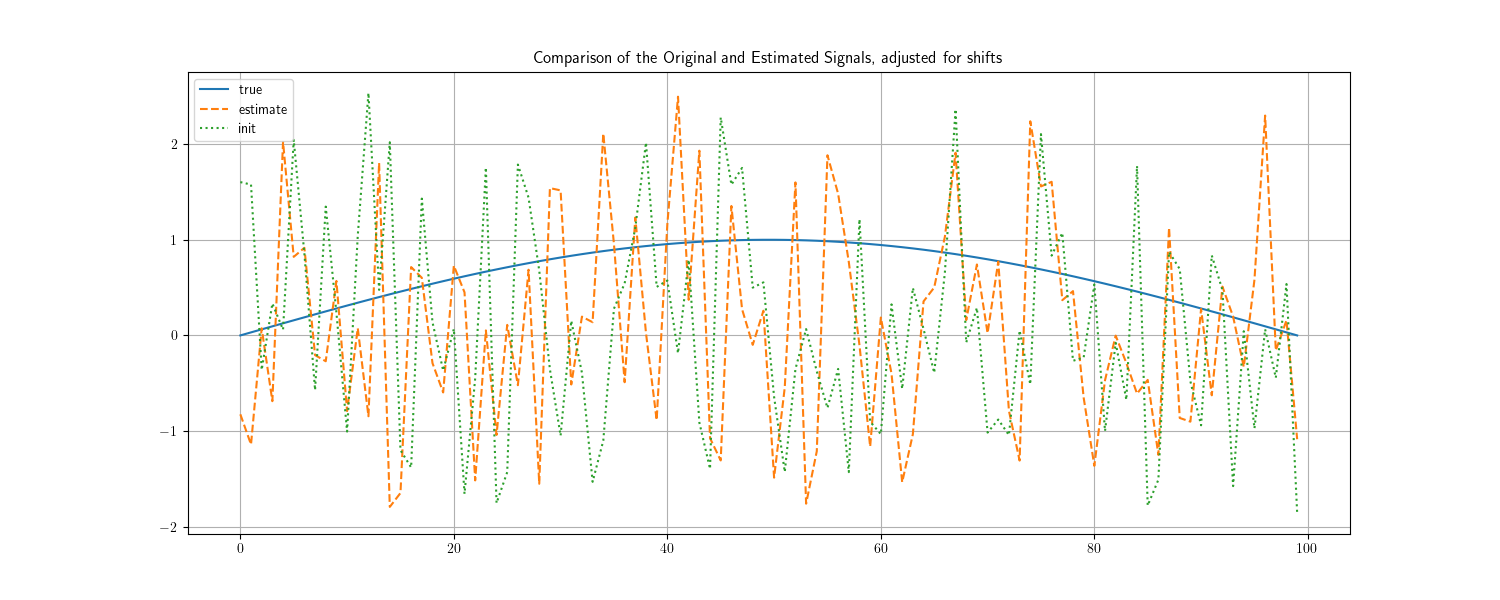
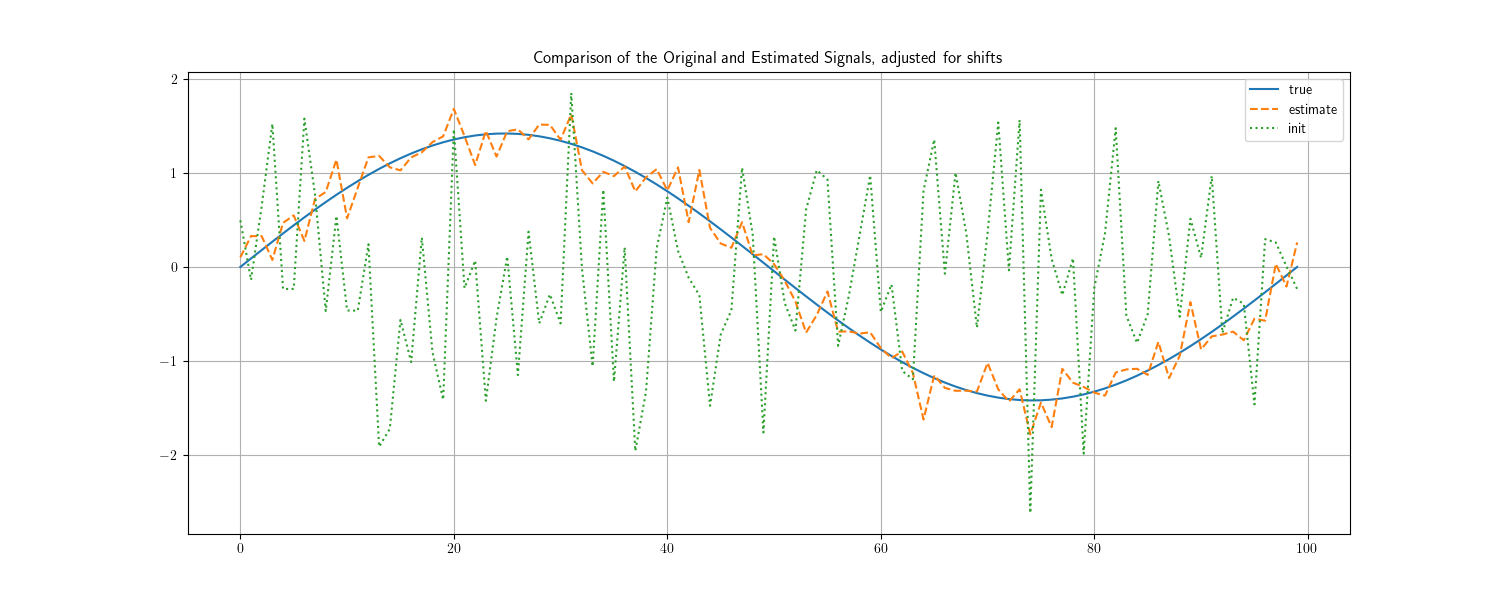
fix major optimizer bug by adding self-defined gradient function to bypass autograd

diff --git a/src/optimization.py b/src/optimization.py
@@ -6,74 +6,21 @@ import pymanopt.optimizers
 
 import utils
 
-def make_A(L):
-    A = np.eye(L, dtype = 'complex_') 
-    A[0,:] += np.ones(L)
-    A[:,0] += np.ones(L)
-    return A
-
-def create_cost_function(mean_est, P_est, B_est, sigma, manifold):
-    euclidean_gradient = euclidean_hessian = None
-    
-    @pymanopt.function.autograd(manifold)
-    def cost(X):
-        L = len(X)
-        # print(type(X))
-        FX = np.fft.fft(X)
-        A = make_A(L)
-        
-        M1 = np.mean(X)
-        M2 = abs(FX)**2 + L * sigma**2 * np.ones(L)
-        # x = np.array(X)[:,i]
-        mat1 = np.array([np.roll(FX,k) for k in range(L)])
-        mat2 = np.outer(FX, np.conjugate(FX))
-        matmul = mat1 * mat2
-        M3 = matmul + mean_est * (sigma**2) * (L**2) * A
-            
-        # M3 = utils.bispectrum(X.reshape(L,1))[0] + mean_est * (sigma**2) * (L**2) * A
-    
-        M3_min_Best = M3 - B_est
-        
-        # compute coefficients
-        a1 = L**2
-        a2 = 1/(L*(2+sigma**2) )
-        a3 = 1/(L**2*(3+sigma**4))
-        
-        scale = 3 + sigma**4
-        assert M2.shape == P_est.shape
-        f = scale * 0.5 * \
-            (a1*(M1-mean_est)**2 + \
-                a2*np.linalg.norm(M2 - P_est,2)**2 + \
-                    a3*np.linalg.norm(M3_min_Best, 'fro')**2 
-            )
-                
-        return f
-    return cost, euclidean_gradient, euclidean_hessian
-    
-    
-    
-# matrix = anp.random.normal(size=(dim, dim))
-# matrix = 0.5 * (matrix + matrix.T)
-
-# @pymanopt.function.autograd(manifold)
-# def cost(point):
-#     return -point @ matrix @ point
-    
-    
-    
 def optimise_manopt(data, sigma, X0, extra_inits = 0):
     assert isinstance(extra_inits, int)
     L, N = data.shape
     mean_est, P_est, B_est = utils.invariants_from_data(data)
     
-    manifold = pymanopt.manifolds.Euclidean(L)
-    cost, euclidean_gradient, euclidean_hessian = create_cost_function(mean_est, P_est, B_est, sigma, manifold)
-    # print('EG: ', euclidean_gradient, ' EH: ', euclidean_hessian)
-    # print(type(cost))
-    problem = pymanopt.Problem(manifold, cost)
-    optimizer = pymanopt.optimizers.TrustRegions(min_gradient_norm = 1e-6, max_iterations = 200)
+    # manifold = pymanopt.manifolds.Euclidean(L,1)
+    manifold = pymanopt.manifolds.Euclidean(L,1)
+    cost, grad, euclidean_hessian = create_cost_function(mean_est, P_est, B_est, sigma, manifold)
+    # problem = pymanopt.Problem(manifold, cost, euclidean_gradient = grad, euclidean_hessian=euclidean_hessian)
+    problem = pymanopt.Problem(manifold, cost, riemannian_gradient=grad)
+    optimizer = pymanopt.optimizers.TrustRegions(min_gradient_norm = 1e-7, max_iterations = 200, verbosity = 1)
+    # optimizer = pymanopt.optimizers.NelderMead()
+    if X0.ndim == 1:
+        X0 = X0.reshape(-1,1)
     result = optimizer.run(problem, initial_point=X0)
-    # optimizer = pymanopt.optimizers.SteepestDescent()
     # result = optimizer.run(problem)
     X_est = result.point
     result_cost = result.cost
@@ -86,3 +33,157 @@ def optimise_manopt(data, sigma, X0, extra_inits = 0):
                 X_est = result.point
             
     return X_est
+
+
+
+def create_cost_function(mean_est, P_est, B_est, sigma, manifold):
+    euclidean_gradient = euclidean_hessian = None
+    
+    # @pymanopt.function.autograd(manifold)
+    # def cost(X):
+    #     L = len(X)
+    #     # print(type(X))
+    #     FX = np.fft.fft(X)
+    #     A = make_A(L)
+        
+    #     M1 = np.mean(X)
+    #     M2 = abs(FX)**2 + L * sigma**2 * np.ones(L)
+    #     # x = np.array(X)[:,i]
+    #     mat1 = np.array([np.roll(FX,k) for k in range(L)])
+    #     mat2 = np.outer(FX, np.conjugate(FX))
+    #     matmul = mat1 * mat2
+    #     M3 = matmul + mean_est * (sigma**2) * (L**2) * A
+            
+    #     # M3 = utils.bispectrum(X.reshape(L,1))[0] + mean_est * (sigma**2) * (L**2) * A
+    
+    #     M3_min_Best = M3 - B_est
+        
+    #     # compute coefficients
+    #     a1 = L**2
+    #     a2 = 1/(L*(2+sigma**2) )
+    #     a3 = 1/(L**2*(3+sigma**4))
+        
+    #     scale = 3 + sigma**4
+    #     assert M2.shape == P_est.shape
+    #     f = scale * 0.5 * \
+    #         (a1*(M1-mean_est)**2 + \
+    #             a2*np.linalg.norm(M2 - P_est,2)**2 + \
+    #                 a3*np.linalg.norm(M3_min_Best, 'fro')**2 
+    #         )
+                
+    #     return f
+    
+    @pymanopt.function.autograd(manifold)
+    def cost(X):
+        if X.ndim == 1:
+            X = X.reshape(-1,1)
+        L, K = X.shape
+        assert K == 1
+        # print(type(X))
+        FX = np.fft.fft(X, axis = 0)
+        A = make_A(L)
+        
+        # limits
+        M1 = np.mean(X)
+        M2 = abs(FX)**2 + L * sigma**2 * np.ones((L,K))
+        M3 = mean_est * (sigma**2) * (L**2) * A
+        # matmul = np.zeros((L,L,K))
+        for k in range(K):
+            y =FX[:,k]
+            mat1 = utils.circulant(y)
+            mat2 = np.outer(y, np.conjugate(y))
+            M3 += mat1 * mat2
+            
+        M3_min_Best = M3 - B_est
+        
+        # compute coefficients
+        a1 = L**2
+        a2 = 1/(L*(2+sigma**2) )
+        a3 = 1/(L**2*(3+sigma**4))
+        
+        scale = 3 + sigma**4
+        # assert M2.shape == P_est.shape
+        f = scale * 0.5 * \
+            (a1*(M1-mean_est)**2 + \
+                a2*np.linalg.norm(M2 - P_est.reshape(-1,1))**2 + \
+                    a3*np.linalg.norm(M3_min_Best, 'fro')**2 
+            )
+                
+        return f
+    
+    
+    @pymanopt.function.autograd(manifold)
+    def grad(X):
+        if X.ndim == 1:
+            X = X.reshape(-1,1)
+        L, K = X.shape
+        assert K == 1
+        # print(type(X))
+        FX = np.fft.fft(X, axis = 0)
+        A = make_A(L)
+        
+        # limits
+        M1 = np.mean(X)
+        M2 = abs(FX)**2 + L * sigma**2 * np.ones((L,K))
+        M3 = mean_est * (sigma**2) * (L**2) * A
+        for k in range(K):
+            y =FX[:,k]
+            mat1 = utils.circulant(y)
+            mat2 = np.outer(y, np.conjugate(y)) 
+            M3 += mat1 * mat2
+            
+        M3_min_Best = M3 - B_est
+        
+        # compute coefficients
+        a1 = L**2
+        a2 = 1/(L*(2+sigma**2) )
+        a3 = 1/(L**2*(3+sigma**4))
+        gradX = (a1/L) * (M1 - mean_est) * np.ones((L,K)) + \
+            2 * L * a2 * np.fft.ifft((M2-P_est.reshape(-1,1))*FX, axis = 0) 
+        for k in range(K):
+            gradX[:,k] += a3 * DBx_adj(FX, M3_min_Best)
+        
+        scale = 3 + sigma**4
+        gradX = scale * gradX.real
+        gradX = manifold.euclidean_to_riemannian_gradient(X, gradX)
+        # print('used defined grad')
+        return gradX
+    
+    return cost, grad, euclidean_hessian
+    # @pymanopt.function.numpy(manifold)
+    # def cost(X):
+    #     return -np.trace(X.T @ B_est @ X)
+
+    # @pymanopt.function.numpy(manifold)
+    # def euclidean_gradient(X):
+    #     return -2 * B_est @ X
+
+    # @pymanopt.function.numpy(manifold)
+    # def euclidean_hessian(X, H):
+    #     return -2 * B_est @ H
+    
+
+    #return cost, grad, euclidean_hessian
+    
+
+def make_A(L):
+    A = np.eye(L, dtype = 'complex_') 
+    A[0,:] += np.ones(L)
+    A[:,0] += np.ones(L)
+    return A
+    
+    
+# matrix = anp.random.normal(size=(dim, dim))
+# matrix = 0.5 * (matrix + matrix.T)
+
+# @pymanopt.function.autograd(manifold)
+# def cost(point):
+#     return -point @ matrix @ point
+    
+def DBx_adj(y, W):
+    y = y.reshape(-1,1)
+    L = y.shape[0]   
+    H = W * utils.circulant(y.conj())
+    z = L * np.fft.ifft(utils.circulantadj(W * (y @ y.conj().T).conj()) + (H + H.conj().T) @ y.reshape(-1,1),axis=0)
+    return z.flatten()
+

diff --git a/src/main.py b/src/main.py
@@ -1,5 +1,6 @@
 import datetime as dt
 import autograd.numpy as np
+#import numpy as np
 import pandas as pd
 import random
 from matplotlib import pyplot as plt, dates
@@ -8,6 +9,7 @@ import time
 
 import utils
 import optimization
+import opt_new
 
 abspath = os.path.abspath(__file__)
 dname = os.path.dirname(abspath)
@@ -20,8 +22,8 @@ x = np.linspace(0,2*np.pi, 100)
 x = np.sin(x)
 # x[30:40] = np.sin(np.linspace(0,4*np.pi, 10))
 # x[90:100] = np.sin(np.linspace(0,4*np.pi, 10))
-# signal = (x-np.mean(x))/np.std(x)
-signal = x
+signal = (x-np.mean(x))/np.std(x)
+# signal = x
 # signal = np.linspace(-1, 1, 5)
 # x = np.zeros(50)
 # x[10:30] = np.arange(20)
@@ -34,7 +36,7 @@ signal = x
 # x = np.linspace(-1, 1, 50)
 # signal = pd.Series((x-np.mean(x))/np.std(x))
 
-num_copies = 500
+num_copies = 5000
 sigma = 0.1
 max_shift= 0.1
 
@@ -43,14 +45,14 @@ start = time.time()
 observations, shifts = utils.generate_data(signal, num_copies,  max_shift, sigma, cyclic = True)
 print('time to generate data = ', time.time() - start)
 
-N, M = observations.shape
-fig, axes = plt.subplots(10,5, figsize=(20,20));
-ax = axes.flatten()
-for i in range(50):
-    lag = shifts[i]
-    ax[i].vlines(lag, np.min(observations[:,i]), np.max(observations[:,i]), color = 'red', ls = '-.')
-    ax[i].plot(observations[:,i])
-plt.savefig('observations')
+# N, M = observations.shape
+# fig, axes = plt.subplots(10,5, figsize=(20,20));
+# ax = axes.flatten()
+# for i in range(50):
+#     lag = shifts[i]
+#     ax[i].vlines(lag, np.min(observations[:,i]), np.max(observations[:,i]), color = 'red', ls = '-.')
+#     ax[i].plot(observations[:,i])
+# plt.savefig('observations')
  
 with open('data.npy', 'wb') as f:
     np.save(f, observations)
@@ -65,11 +67,11 @@ with open('data.npy', 'wb') as f:
 # mean_est, P_est, B_est = utils.invariants_from_data(observations)
 
 L = len(signal)
-# np.random.seed(42)
+np.random.seed(42)
 X0 = np.random.normal(0, 1, L)
-# X0 = signal.copy()
-# X0 += np.random.normal(0, 0.1, L)
-X_est = optimization.optimise_manopt(observations, sigma, X0, extra_inits=0)
+# X0 = np.zeros(L)
+X_est = optimization.optimise_manopt(observations, sigma, X0, extra_inits=2)
+# X_est = opt_new.optimise_manopt(observations, sigma, X0, extra_inits=0)
 
 with open('test.npy', 'wb') as f:
     np.save(f, X_est)
@@ -78,6 +80,6 @@ with open('test.npy', 'wb') as f:
 
 # print(X_est)
 # print(signal)
-print('error = ', np.linalg.norm(X_est-signal)/L)
+print('relative error = ', np.linalg.norm(X_est-signal)/np.linalg.norm(signal))
 
 

diff --git a/src/visualization.py b/src/visualization.py
@@ -1,10 +1,12 @@
 import numpy as np
 import matplotlib.pyplot as plt
-import statsmodels.tsa.stattools as smt
+import os
 import utils
-# x = np.array([2, 3, 5, 7, 11, 13])
-# y = np.array([np.roll(x,k) for k in range(len(x))])
-# print(y)
+
+abspath = os.path.abspath(__file__)
+dname = os.path.dirname(abspath)
+os.chdir(dname)
+
 x = np.arange(5)
 y = np.roll(x,1)
 x_aligned = utils.align_to_ref(x,y)
@@ -14,7 +16,7 @@ with open('test.npy', 'rb') as f:
     signal = np.load(f)
     X0 = np.load(f)
 
-
+X_est = X_est.flatten()
 plt.rcParams['text.usetex'] = True
 # use convolution theorem https://en.wikipedia.org/wiki/Cross-correlation
 signal_fft = np.fft.fft(signal)
